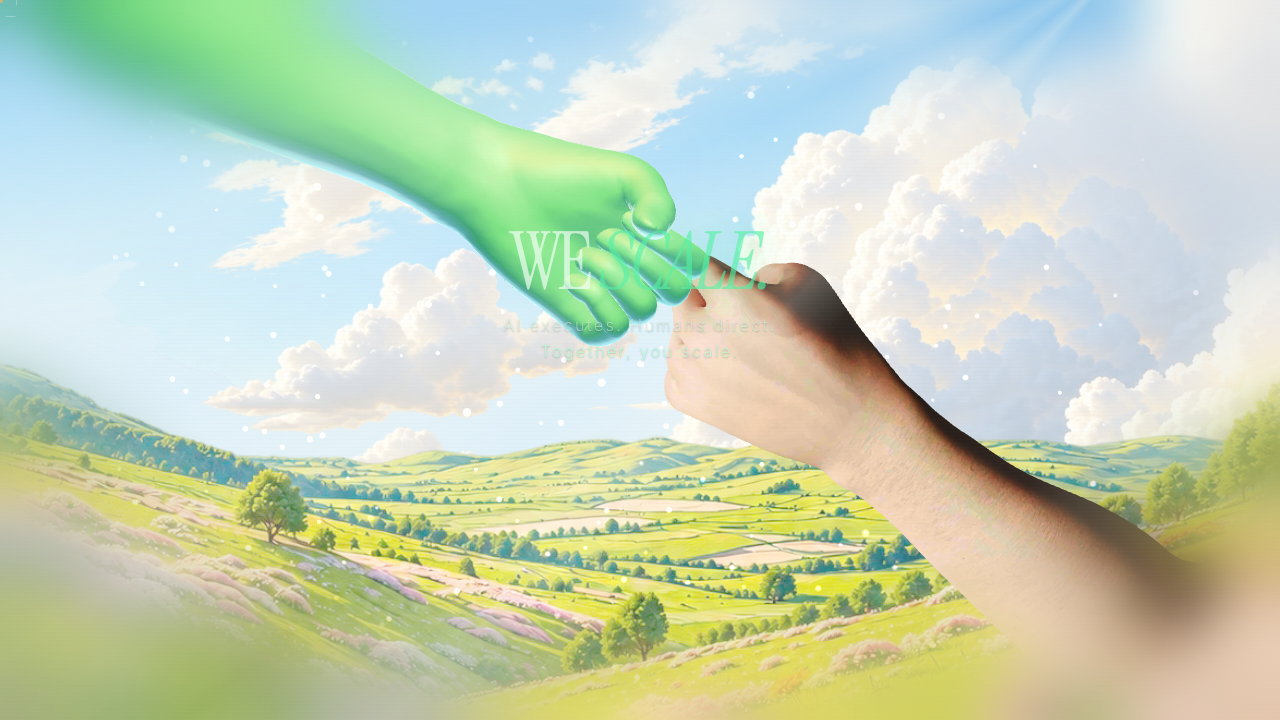
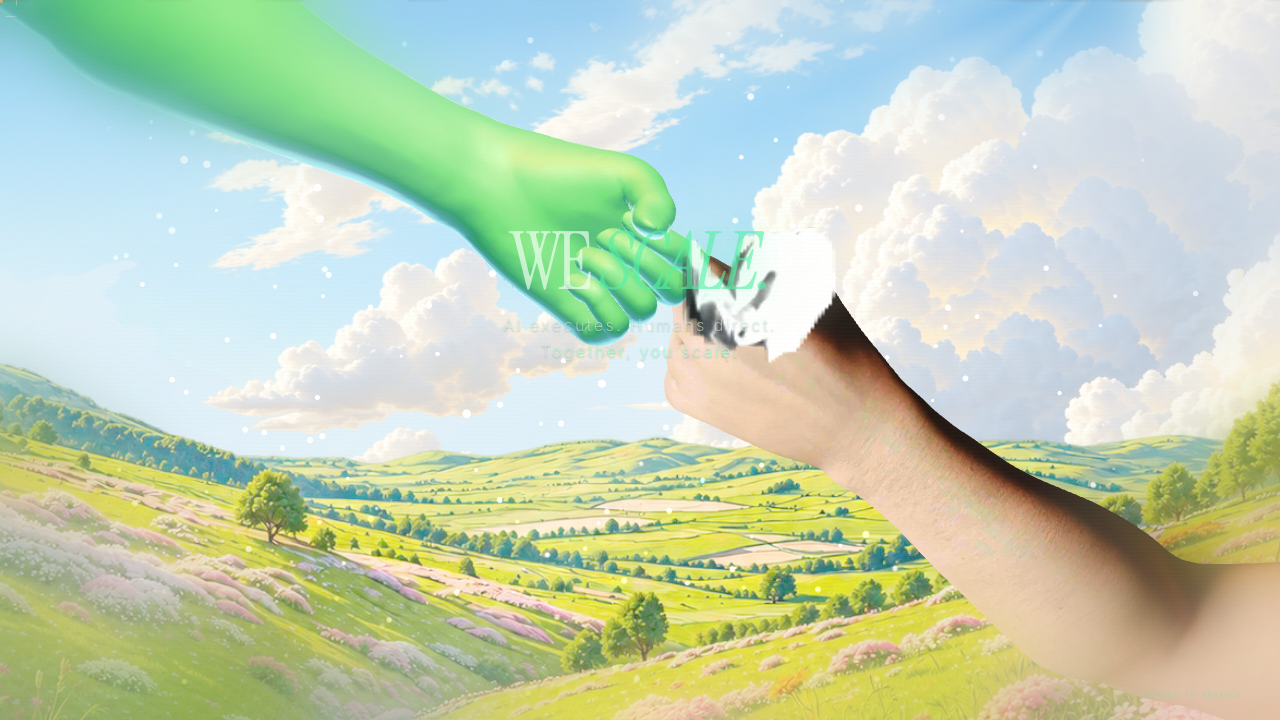
D-052: paper-tear transition on the fist bump (scrubbed 28-frame keyed atlas) + veil/blur handoff + consultStretch 2.52

diff --git a/src/gl/consultMeet.js b/src/gl/consultMeet.js
@@ -54,7 +54,8 @@ import SKY_URL from "../assets/meet-sky.png?url";
 import LAND_URL from "../assets/meet-land.png?url";
 import CLOUDS_URL from "../assets/meet-clouds.png?url";
 import MATCAP_URL from "../assets/meet-matcap-hand.webp?url";  // Yash's own hand matcap (zeromirror)  // green: high polish (glossier than the human hand — Yash, 2 Sep)
-import SKIN_URL from "../assets/meet-human-skin.png?url";  // baked skin from the human_hands atlas  // human: soft sheen, deliberately below the green
+import SKIN_URL from "../assets/meet-human-skin.png?url";
+import PAPER_URL from "../assets/meet-paper-tear.webp?url";  // 28-frame keyed paper-tear atlas  // baked skin from the human_hands atlas  // human: soft sheen, deliberately below the green
 import NEUTRAL_MATCAP_URL from "../assets/meet-neutral-matcap.png?url";
 
 const clamp01 = (v) => Math.max(0, Math.min(1, v));
@@ -165,6 +166,56 @@ export function createConsultMeet(scene, _opts = {}) {
   rigGroup.scale.setScalar(SCALE);
   rigGroup.position.copy(CENTER_LIFT);
   group.add(rigGroup);
+
+  /* ── PAPER TEAR (Yash's reference clip, 3 Sep) ──
+     His video is a pack of FOUR green-screen tears; frames 7-57 of the first
+     one, rotated to landscape, chroma-keyed and despilled into a 7x4 atlas.
+     Scrubbed by scroll (never time-driven) so the beat stays reversible: it
+     wipes on as the fists meet, covers, then rips open and pulls away. */
+  const paperTexture = new TextureLoader().load(PAPER_URL);
+  paperTexture.colorSpace = SRGBColorSpace;
+  paperTexture.flipY = false;          // atlas row 0 is the TOP row
+  paperTexture.generateMipmaps = false;
+  paperTexture.minFilter = LinearFilter;
+  const PAPER_COLS = 4, PAPER_ROWS = 7, PAPER_N = PAPER_COLS * PAPER_ROWS;
+  const paperMaterial = new ShaderMaterial({
+    transparent: true,
+    depthWrite: false,
+    depthTest: false,
+    uniforms: {
+      uTex: { value: paperTexture },
+      uFrame: { value: 0 },
+      uOpacity: { value: 0 },
+      uRes: { value: new Vector3(1, 1, 1) },
+    },
+    vertexShader: `
+      void main() { gl_Position = projectionMatrix * modelViewMatrix * vec4(position, 1.0); }
+    `,
+    fragmentShader: `
+      uniform sampler2D uTex;
+      uniform float uFrame;
+      uniform float uOpacity;
+      uniform vec3 uRes;
+      void main() {
+        vec2 uv = gl_FragCoord.xy / uRes.xy;
+        float i = clamp(floor(uFrame), 0.0, 27.0);
+        float col = mod(i, 4.0);
+        float row = floor(i / 4.0);
+        vec2 cell = vec2(1.0 / 4.0, 1.0 / 7.0);
+        vec2 t = (vec2(col, row) + vec2(uv.x, 1.0 - uv.y)) * cell;
+        vec4 c = texture2D(uTex, t);
+        if (c.a * uOpacity < 0.004) discard;
+        gl_FragColor = vec4(c.rgb, c.a * uOpacity);
+      }
+    `,
+  });
+  const paper = new Mesh(new PlaneGeometry(400, 400), paperMaterial);
+  paper.position.set(0, 0, 0);
+  paper.renderOrder = 40;      // above the hands (11)
+  paper.frustumCulled = false;
+  group.add(paper);
+  /* the tear runs from the moment of contact to just before the beat fades */
+  const PAPER_A = 0.64, PAPER_B = 0.82;
 
   let mixer = null;
   let actions = [];
@@ -563,6 +614,23 @@ export function createConsultMeet(scene, _opts = {}) {
     ringMaterial.uniforms.uSpark.value = sparkT;
     ringMaterial.uniforms.uOpacity.value = on;
     washMaterial.uniforms.uOpacity.value = on * smooth((p - 0.06) / 0.1) * (1 - bgOn);  // meadow replaces the dark wash
+
+    if (window.__buildanta && !window.__buildanta.meetPaper)
+      window.__buildanta.meetPaper = paperMaterial;   // dev bridge
+    /* paper tear: pure f(scroll), so forward and reverse match exactly */
+    const paperT = clamp01((p - PAPER_A) / (PAPER_B - PAPER_A));
+    paperMaterial.uniforms.uFrame.value = paperT * (PAPER_N - 1);
+    paperMaterial.uniforms.uOpacity.value =
+      (p > PAPER_A && p < PAPER_B) ? on : 0;
+    /* the veil + edge blur are CSS layers ON TOP of the canvas; without this
+       they wash the white paper to grey. Hand them the coverage so they can
+       yield while the tear owns the frame. */
+    document.documentElement.style.setProperty(
+      "--meet-paper", (paperMaterial.uniforms.uOpacity.value > 0
+        ? Math.sin(clamp01(paperT) * Math.PI) : 0).toFixed(3));
+    paperMaterial.uniforms.uRes.value.set(
+      window.innerWidth * (window.devicePixelRatio || 1),
+      window.innerHeight * (window.devicePixelRatio || 1), 1);
 
     lastProgress = p;
     lastTime = time;

diff --git a/src/styles/main.css b/src/styles/main.css
@@ -5788,7 +5788,7 @@ canvas.market-camera3d {
   inset: 0;
   pointer-events: none;
   z-index: 3;
-  opacity: calc(var(--meet-bg, 0) * 0.85);
+  opacity: calc(var(--meet-bg, 0) * 0.85 * (1 - var(--meet-paper, 0)));
   background:
     conic-gradient(from 218deg at 88% -6%,
       rgba(255,255,255,0) 0deg, rgba(255,252,240,0.28) 6deg,
@@ -5836,5 +5836,5 @@ canvas.market-camera3d {
   -webkit-backdrop-filter: blur(30px);
   mask-image: radial-gradient(ellipse 74% 70% at 50% 50%, transparent 48%, black 72%);
   -webkit-mask-image: radial-gradient(ellipse 74% 70% at 50% 50%, transparent 48%, black 72%);
-  opacity: var(--meet-bg, 0);
+  opacity: calc(var(--meet-bg, 0) * (1 - var(--meet-paper, 0)));
 }

diff --git a/ARCHITECTURE.md b/ARCHITECTURE.md
@@ -392,6 +392,17 @@ world does not have a fallback: `content/world.json` is committed, so a fresh cl
 - **Also:** the severed arm ends are faded in JS, not Blender — the exporter kept a stale second colour layer, so COLOR_0 was never mine; the loader now derives the fade from geometry (long axis + flat-cap detection: the cut end is a razor-thin vertex slab, the hand end spreads into fingers).
 - **Suites:** journey + verify-reverse green (11/11 identical). Scripts: scratchpad/probe-frame.py, clasp-solve.py, stub-fade.py; source of truth handshake-anim3.blend.
 
+### D-052 — Paper-tear transition fires on the fist bump
+- **Date:** 2026-09-03
+- **Trigger:** Yash's reference clip: a green-screen crumpled-paper tear. Wanted it to play when the fists touch. Plus a further +20% scroll on the beat (consultStretch 2.1 -> 2.52).
+- **Source:** his mp4 is a PACK OF FOUR tears (coverage sweeps 0->100->0 four times across the 10s). Used the first, frames 7-57, `transpose=1` to landscape so it matches a 16:9 stage instead of being cropped from portrait.
+- **Built as a SCRUBBED SPRITE ATLAS, not a video element** — a `<video>` seeked by scroll janks and, worse, would break verify-reverse. 28 frames in a 4x7 grid at 720x405 (2880x2835, inside the 4096 texture limit), 189 KB webp. Frame index is a pure function of consultLocal, so forward and reverse match exactly.
+- **Keying:** alpha from green dominance `min(g-r, g-b)` feathered over 22 levels, then a morphological CLOSE (MaxFilter 7 -> MinFilter 7) to fill the compression speckle the key punches into the paper, then hard despill `g = min(g, (r+b)/2)`.
+- **🔴 Two things that looked like bugs but were the SOURCE:** (1) the clip idles on a featureless grey white-out for 11 of 28 frames — re-timed the sampling to spend the budget on the wipe-on and the rip-open and only 3 frames on the cover; (2) the paper grades dull grey, so a levels lift `(x-108)*1.72+150` pulls it to real white while keeping the fold shadows. Confirmed via a uniforms probe that the plumbing was already correct (frame 14.5, opacity 1, texture 2880x2835) BEFORE touching the atlas — the pixels were the problem, not the wiring.
+- **CSS handoff:** the veil and edge-blur are DOM layers ON TOP of the canvas and were washing the white paper to grey. consultMeet now writes `--meet-paper` (sin-shaped over the tear window) and both CSS layers multiply by `(1 - var(--meet-paper))`, measured dropping to 0.006 at full cover.
+- **Window:** consultLocal 0.64 -> 0.82, i.e. it starts as the fists meet and finishes before the beat fades.
+- **Still open:** Yash's "double/dollar wheel" and the "WE SCALE top right" asks are still undecoded — asked twice, no reference yet.
+
 ### D-051 — Fists actually touch, and the beat gets +50% scroll
 - **Date:** 2026-09-03
 - **Trigger:** Yash's screenshot: the fists stop short of each other. Plus "increase the scroll time of that particular part by 50%".
